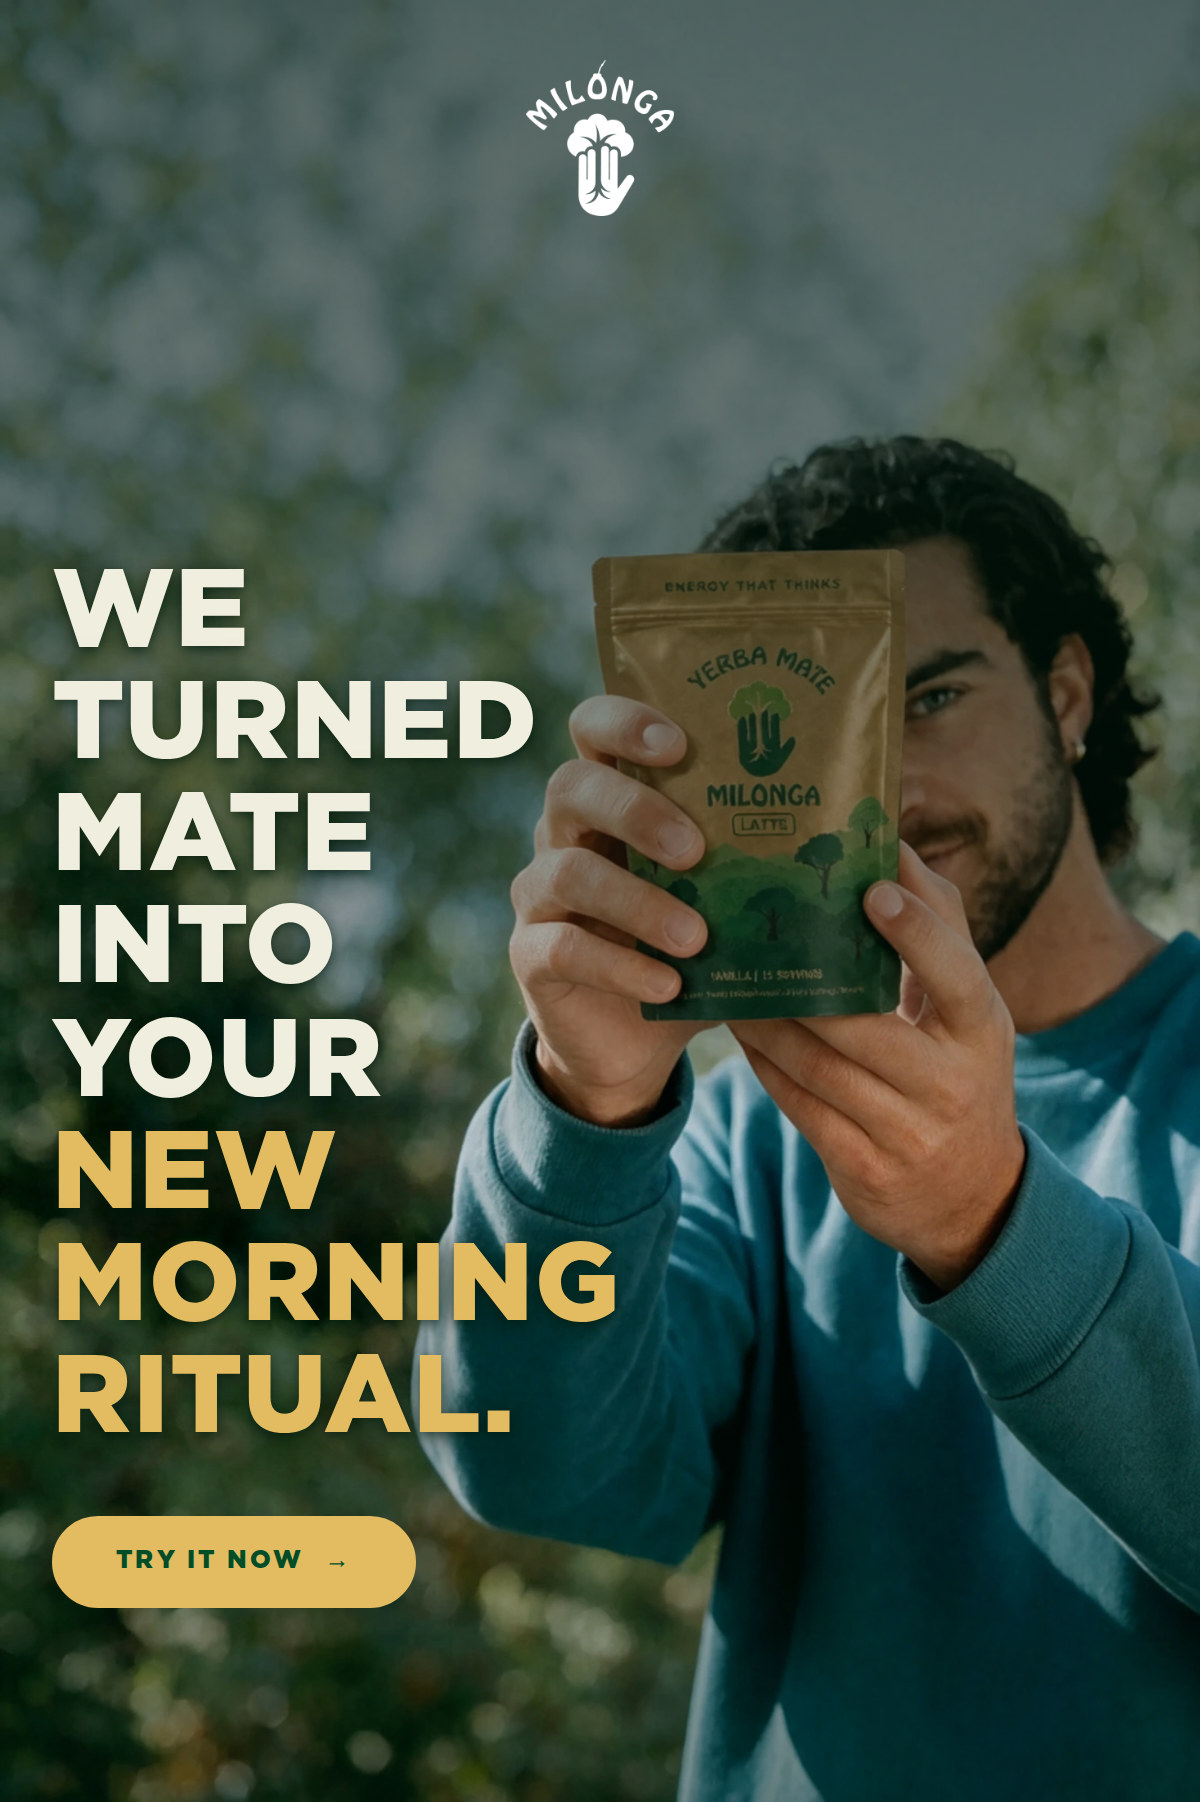
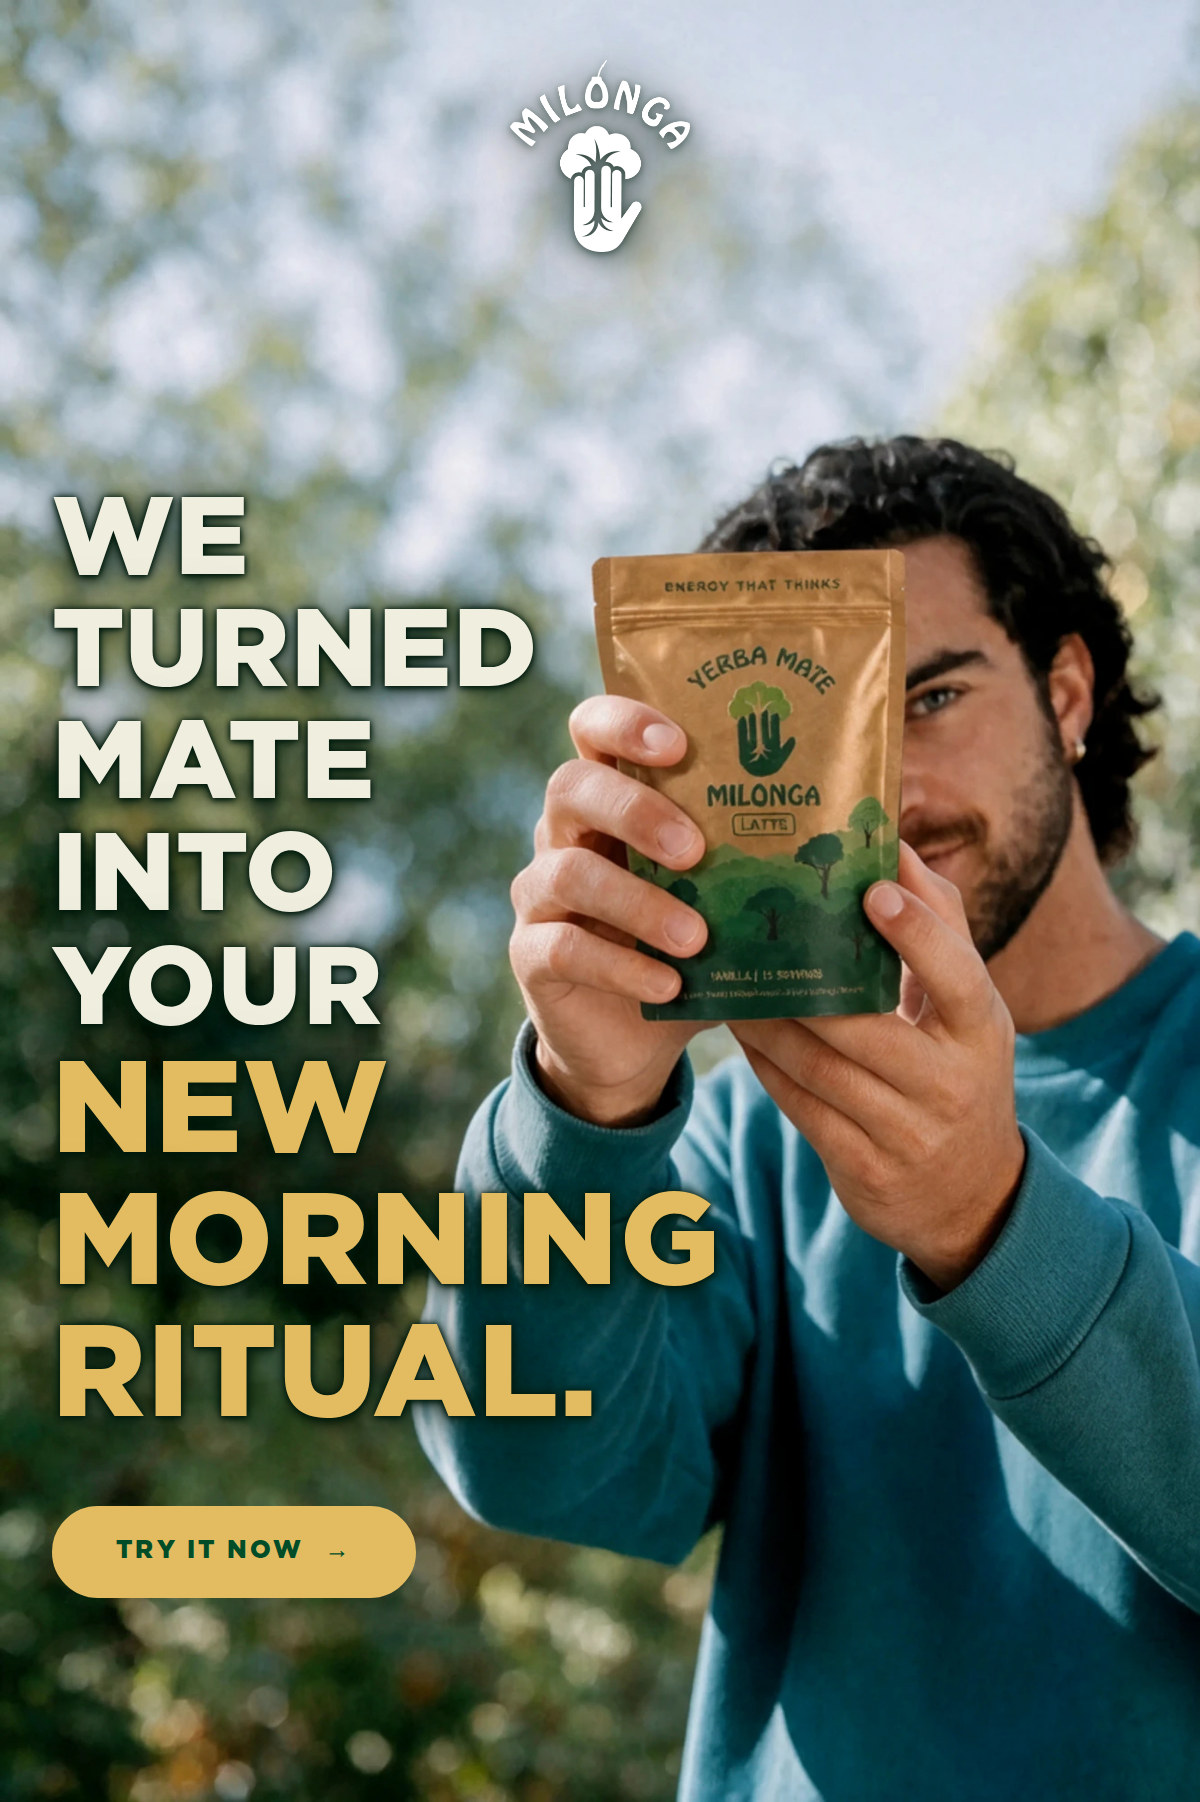
Drop the wash, set the accent line at 65px, enlarge the wordmark
The photograph goes in with no scrim at all — scrim 0, so the green wash is
gone and the picture is as shot. The type is carried entirely by its own halo,
which T9Story already tightens to a dense core below 0.7 scrim.

The wordmark could not be. It is artwork, not text, so the type's textShadow
does nothing for it, and the band it sits in measures luminance 212 — near
white sky. With the wash gone the white lockup had nothing to sit against, so
it now carries a drop-shadow of its own. Checked at 2x: it reads.

`size2` sets the accent line independently, here 65 against the setup's 55, so
"NEW MORNING RITUAL" lands harder than "we turned mate into your". Wordmark up
from 78 to 96.

The stack starts at 27% rather than 31%: at these sizes the block is 479px and
would otherwise have pushed the button to within 7% of the foot.

Those two 65px lines run further over his sleeve than the 55px ones did — gold
on flat mid-teal, which holds, and there is no size at which they would not.

Claude-Session: https://claude.ai/code/session_01NhEtXPnfeCJfN73SqBkUZ5

diff --git a/email-ds/src/components/HeroTemplates.tsx b/email-ds/src/components/HeroTemplates.tsx
@@ -1037,6 +1037,11 @@ export interface T9Props {
    */
   logoTop?: number | string;
   /**
+   * Size of the SECOND headline line, when the accent half should be louder
+   * than the setup. Defaults to `size`.
+   */
+  size2?: number;
+  /**
    * Line-height of the headline. 1.0 is the default; a poster-scale stack
    * wants 0.88-0.92, where the lines almost touch and the block reads as one
    * mass rather than as separate rows. Below about 0.85 the descenders of one
@@ -1089,6 +1094,7 @@ export function T9Story({
   ink = 'light',
   logoTone,
   logoTop,
+  size2,
   titleLead = 1.0,
   align = 'center',
   belowPad = 34,
@@ -1180,7 +1186,12 @@ export function T9Story({
           inside its column, so it comes out of the stack and gets its own row. */}
       {logo && leftAlign ? (
         <div style={{ position: 'absolute', top: logoTop ?? top, left: 0, right: 0, textAlign: 'center' }}>
-          <Logo tone={logoTone ?? (darkInk ? 'green' : 'beige')} variant="primary" height={logoHeight} />
+          {/* The wordmark is artwork, not text, so the type's textShadow does
+              nothing for it. On a bright sky with no scrim it needs a
+              drop-shadow of its own or the white lockup simply dissolves. */}
+          <span style={{ display: 'inline-block', filter: 'drop-shadow(0 1px 2px rgba(0,26,13,0.55)) drop-shadow(0 2px 8px rgba(0,26,13,0.5)) drop-shadow(0 6px 22px rgba(0,26,13,0.4))' }}>
+            <Logo tone={logoTone ?? (darkInk ? 'green' : 'beige')} variant="primary" height={logoHeight} />
+          </span>
         </div>
       ) : null}
 
@@ -1196,7 +1207,7 @@ export function T9Story({
         ) : null}
         <CapsLine text={line1} style={{ ...caps(size, '0.01em', headInk), lineHeight: titleLead, textShadow: shadow }} />
         {line2 ? (
-          <CapsLine text={line2} style={{ ...caps(size, '0.01em', headInk2), lineHeight: titleLead, textShadow: shadow }} />
+          <CapsLine text={line2} style={{ ...caps(size2 ?? size, '0.01em', headInk2), lineHeight: titleLead, textShadow: shadow }} />
         ) : null}
 
         {lead ? (

diff --git a/email-ds/emails/mate-latte-why.jsx b/email-ds/emails/mate-latte-why.jsx
@@ -39,7 +39,7 @@ function MateLatteWhy() {
       alt: 'We turned mate into your new morning ritual. A man outdoors holds up a Milonga Yerba Mate Latte pouch in front of his face, framed by out-of-focus green trees. Try it now.',
       logo: true,
       logoTone: 'white',
-      logoHeight: 78,
+      logoHeight: 96,
       // The wordmark belongs at the top of the frame; the stack is placed
       // against the photograph, so the two are positioned separately.
       logoTop: 30,
@@ -49,10 +49,15 @@ function MateLatteWhy() {
       line2: 'new morning ritual.',
       cta: { label: 'Try it now', href: '#shop', arrow: true },
       ctaInline: true,
+      // No wash at all — the photograph goes in as shot. The type is carried
+      // by its own halo, which T9Story tightens automatically below 0.7 scrim,
+      // and the wordmark by a drop-shadow of its own.
+      scrim: 0,
       ratio: 1.501,
       size: 55,
+      size2: 65,
       titleLead: 1.02,
-      top: '31%',
+      top: '27%',
       padLeft: 26,
       padRight: 289,
       measure: 285,
